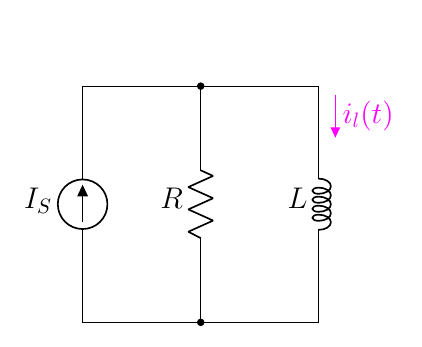
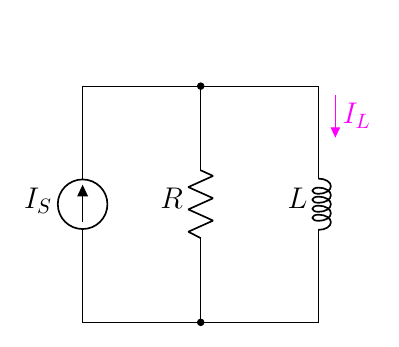
7.61

diff --git a/2.3 Driven RL/7.6 Driven RL/7.61(new).tex b/2.3 Driven RL/7.6 Driven RL/7.61(new).tex
@@ -24,6 +24,6 @@
         to[short] ++(2,0);
     %%% find %%%
     \draw[circuitikz/current arrow color=magenta](4,3.1)
-    to[open,f<_=$\color{magenta}{i_l(t)}$] ++(0,2);
+    to[open,f<_=$\color{magenta}{I_L}$] ++(0,2);
 \end{circuitikz}
 \end{document}
